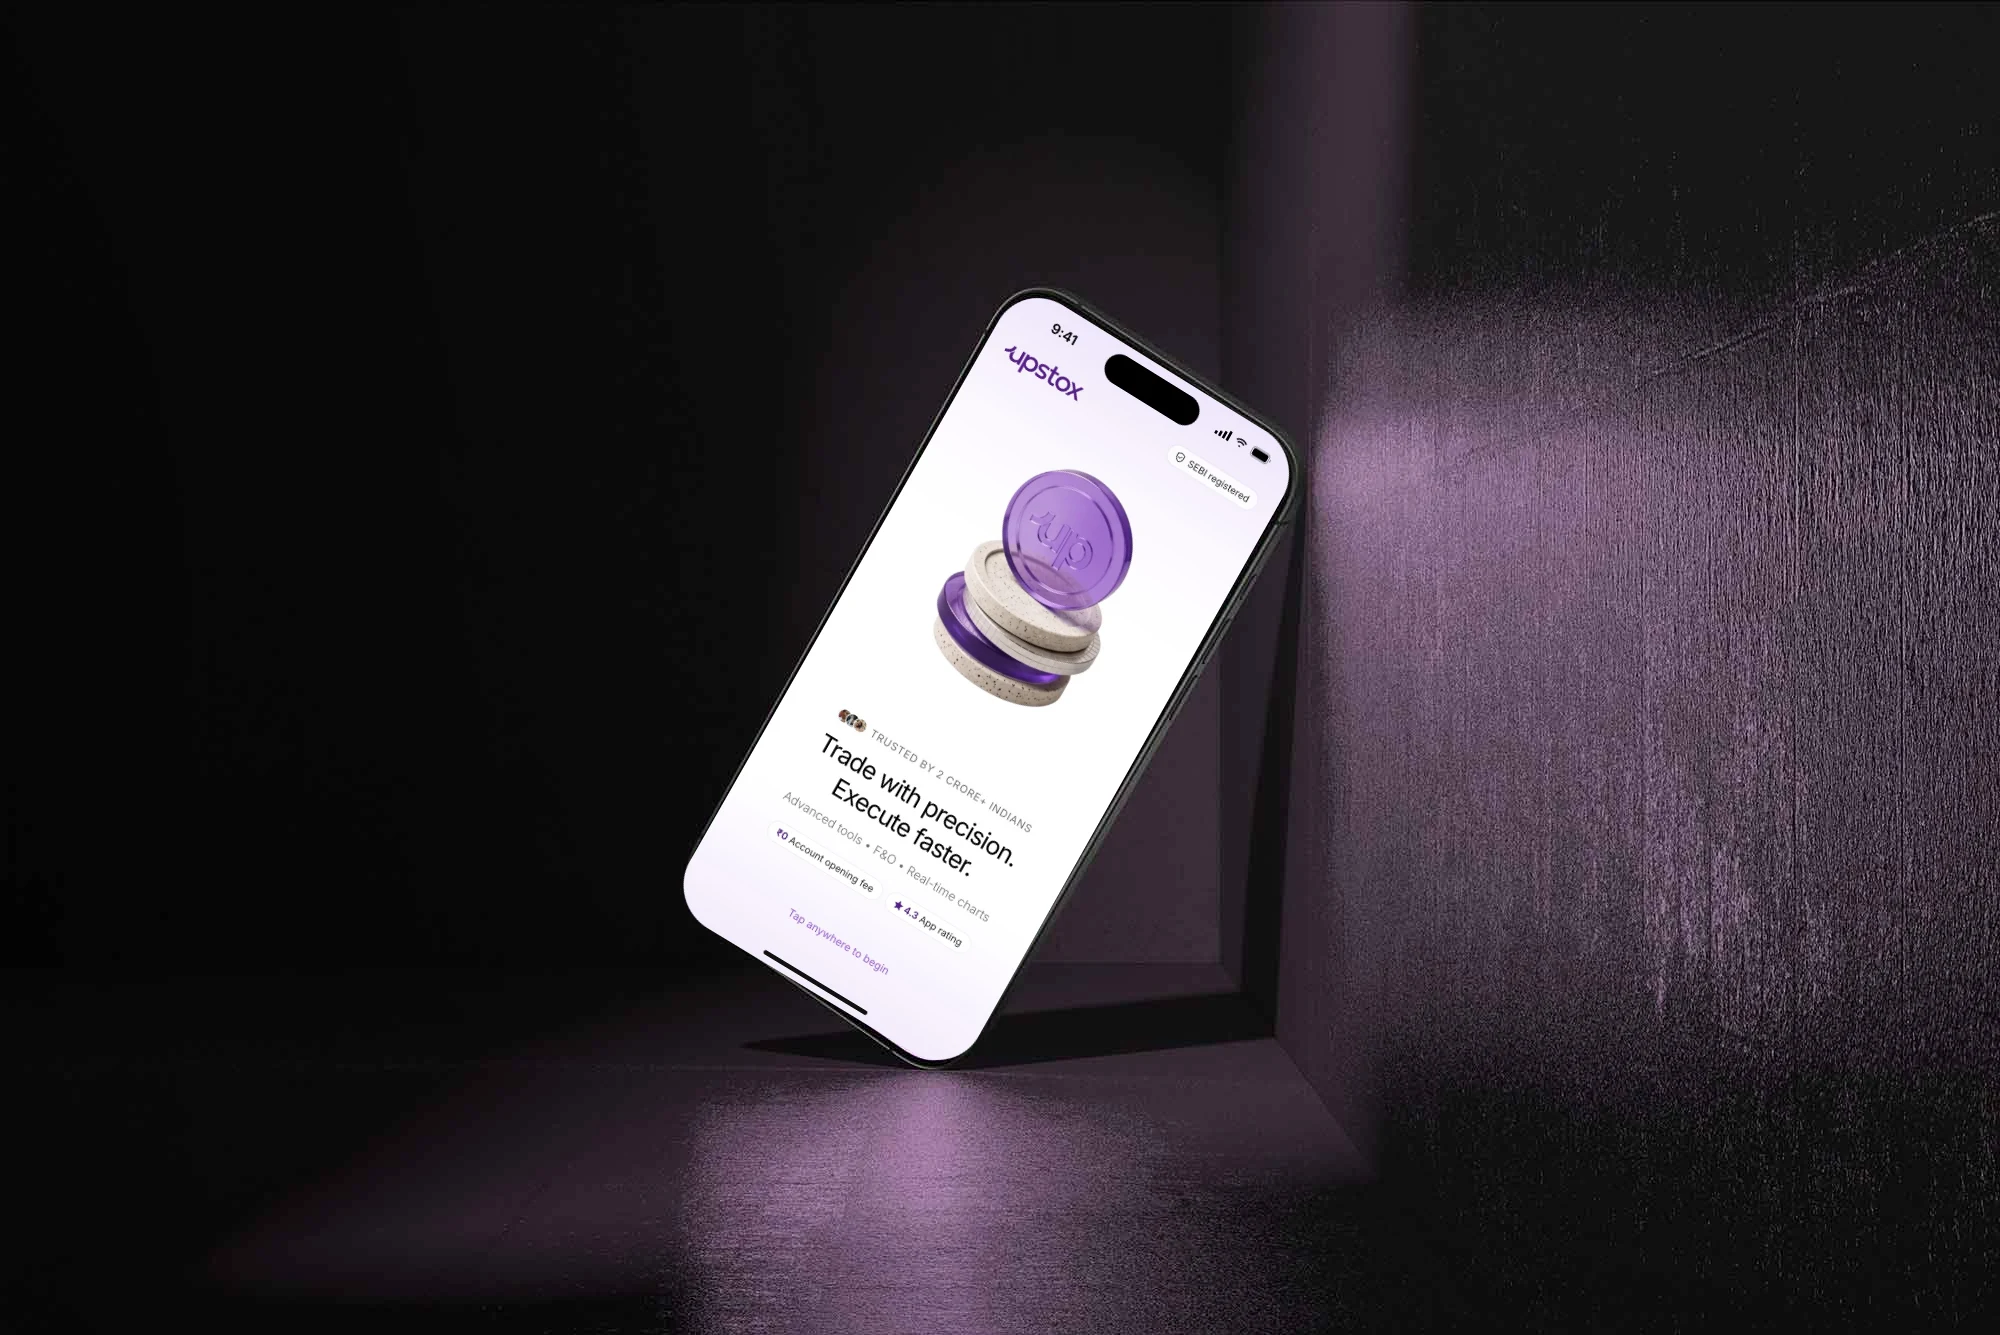
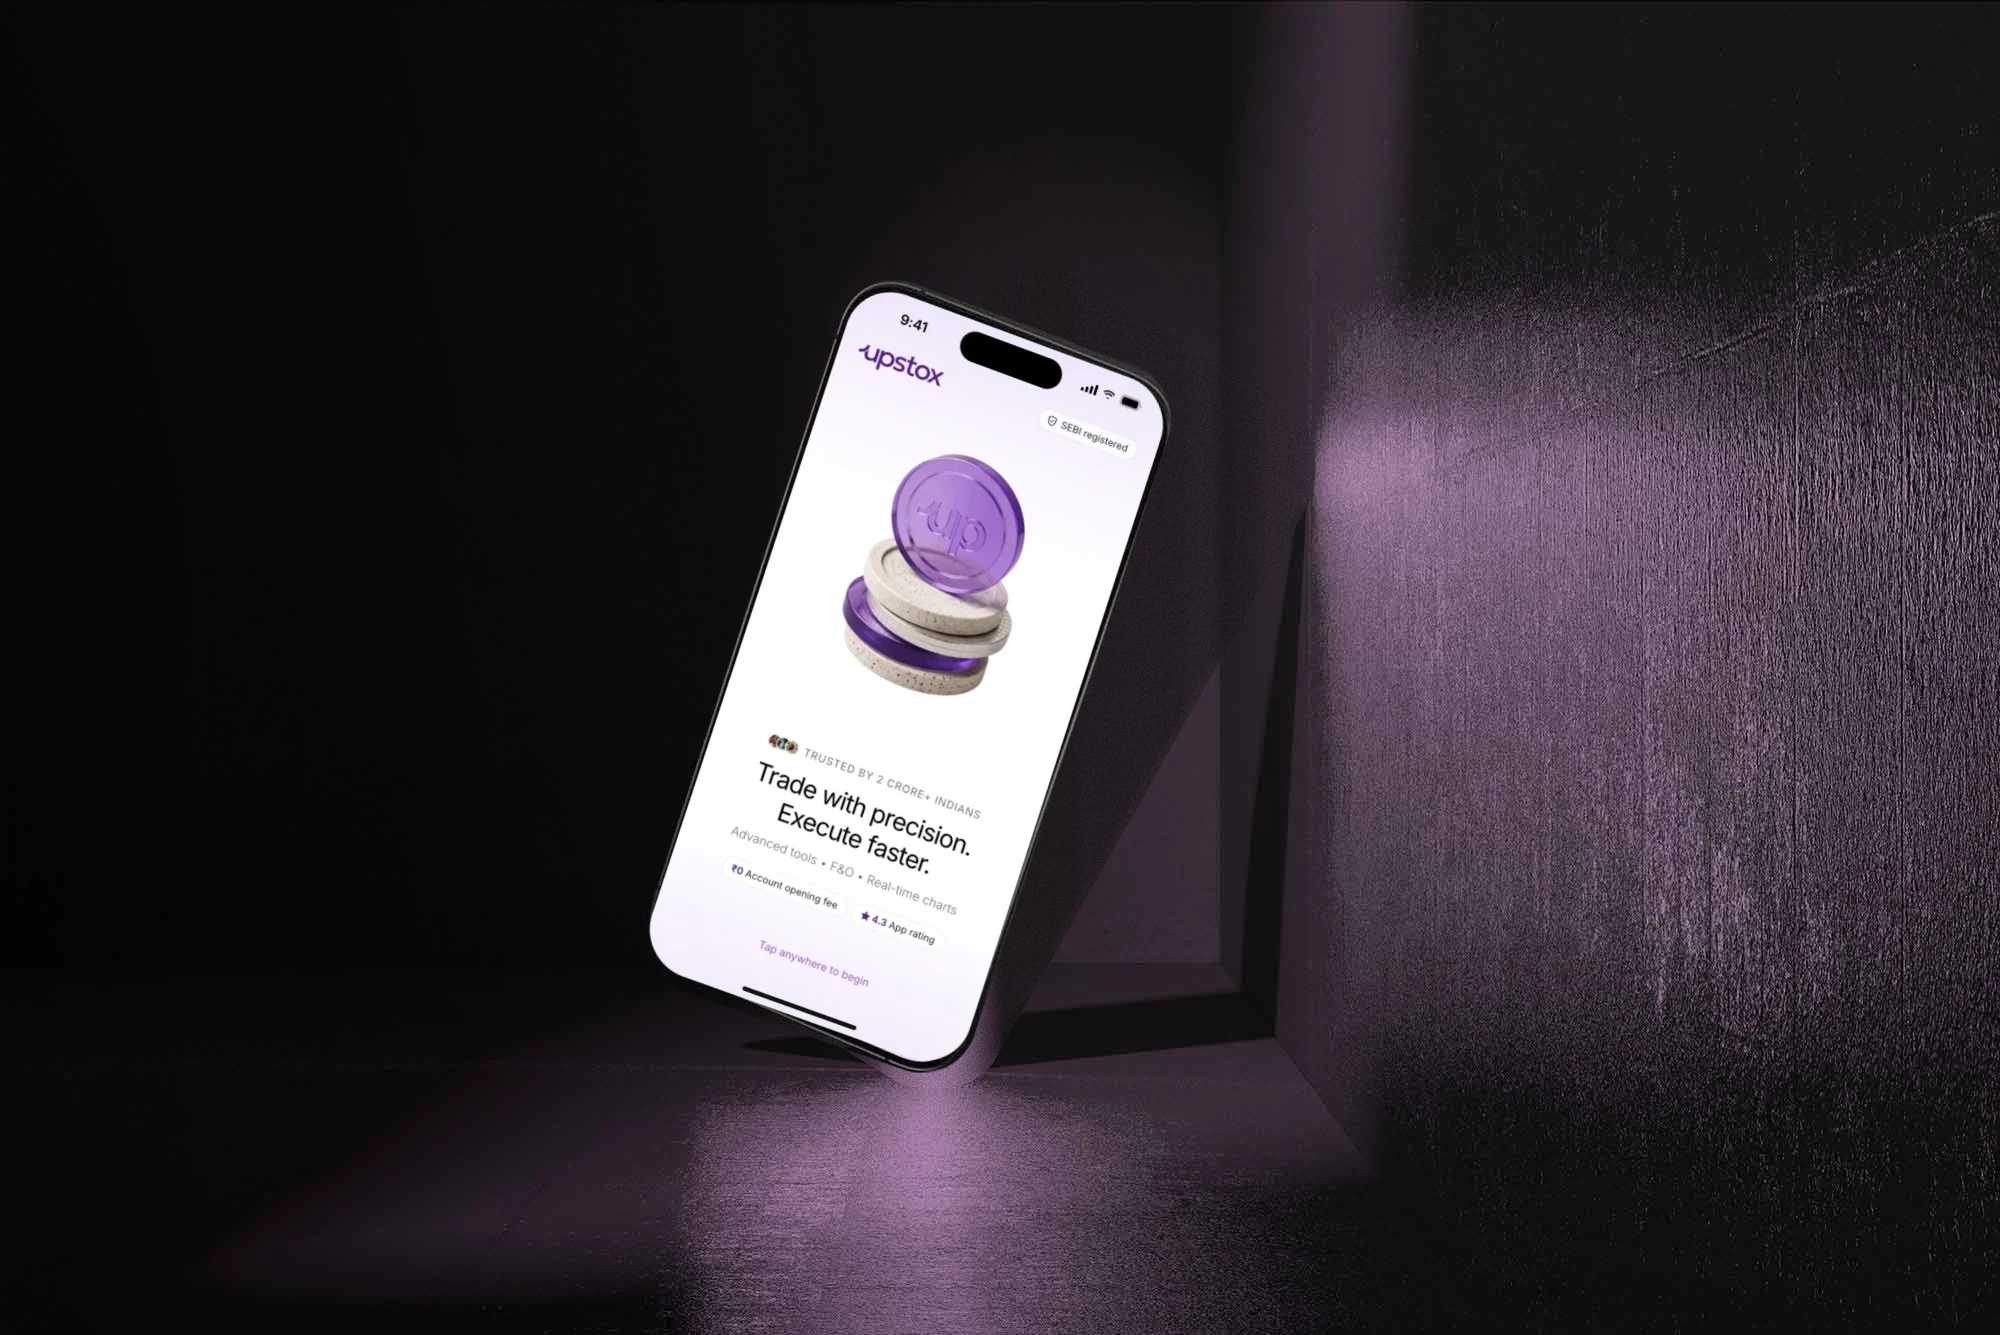
AO hero: stand the phone more upright in the cover

Changed region(s): [[0.31, 0.215, 0.651, 0.8292]]

diff --git a/src/app/work/account-opening/page.tsx b/src/app/work/account-opening/page.tsx
@@ -20,7 +20,7 @@ export const metadata: Metadata = { title: "Account Opening — Salaath Shaikh" 
 const IMG = "/work/ao3";
 // hero-cover.webp: the page background continues the image's left edge; the phone is centred at COVER_CX
 const COVER_BG = "linear-gradient(180deg,rgb(6,6,6),rgb(6,6,6),rgb(6,6,6),rgb(6,6,6),rgb(6,6,6),rgb(8,8,8))";
-const COVER_CX = 0.494;
+const COVER_CX = 0.454;
 const RED = "#D93A2B";
 // The prototype is served from this site so it always matches the page.
 const PROTO = "/work/ao3/prototype/index.html";
